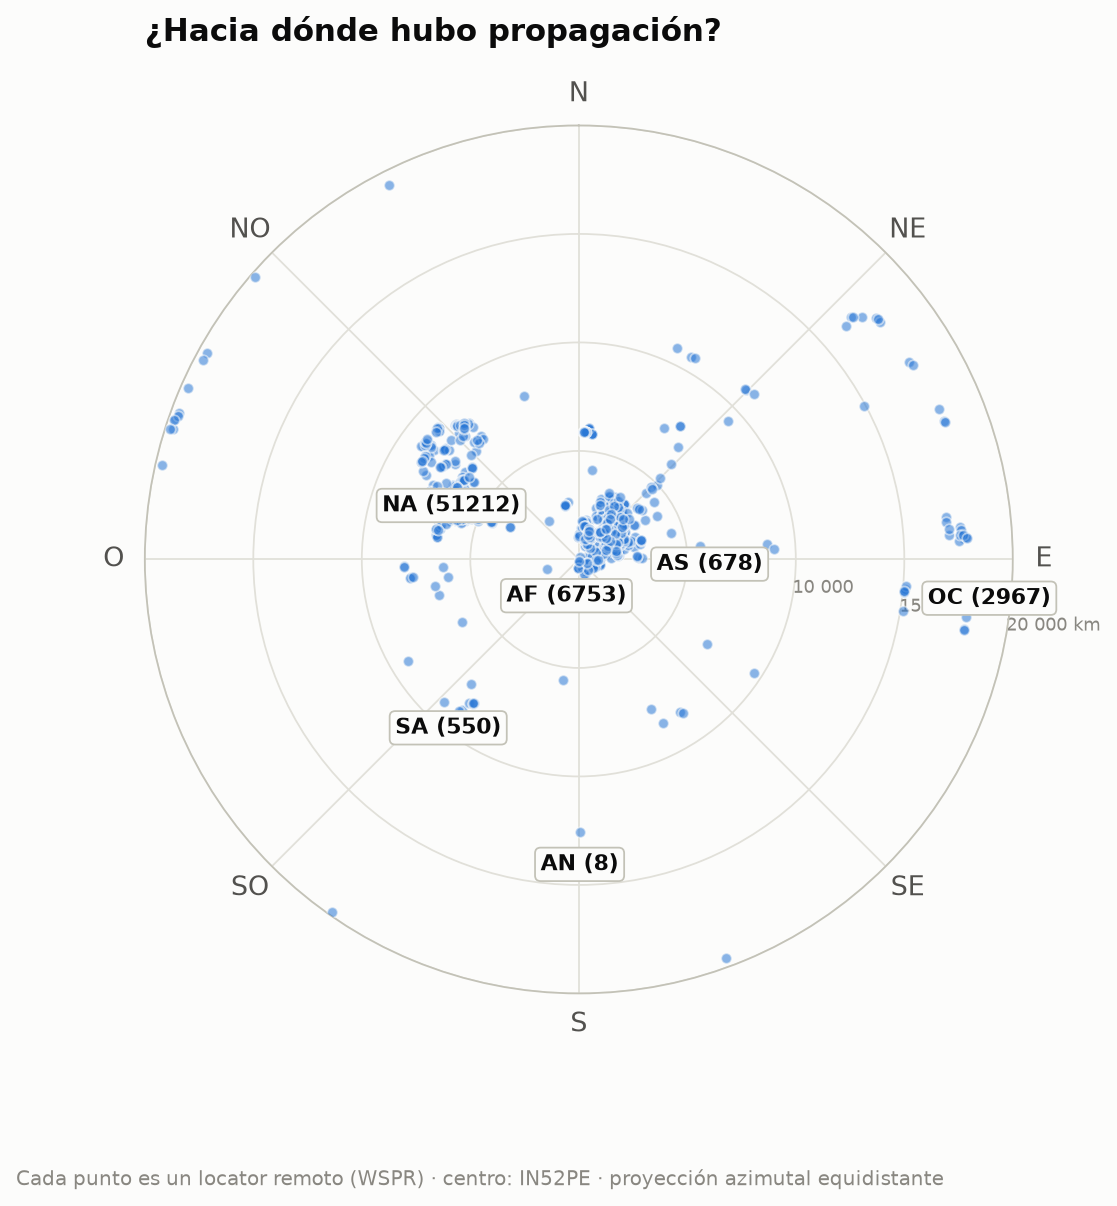
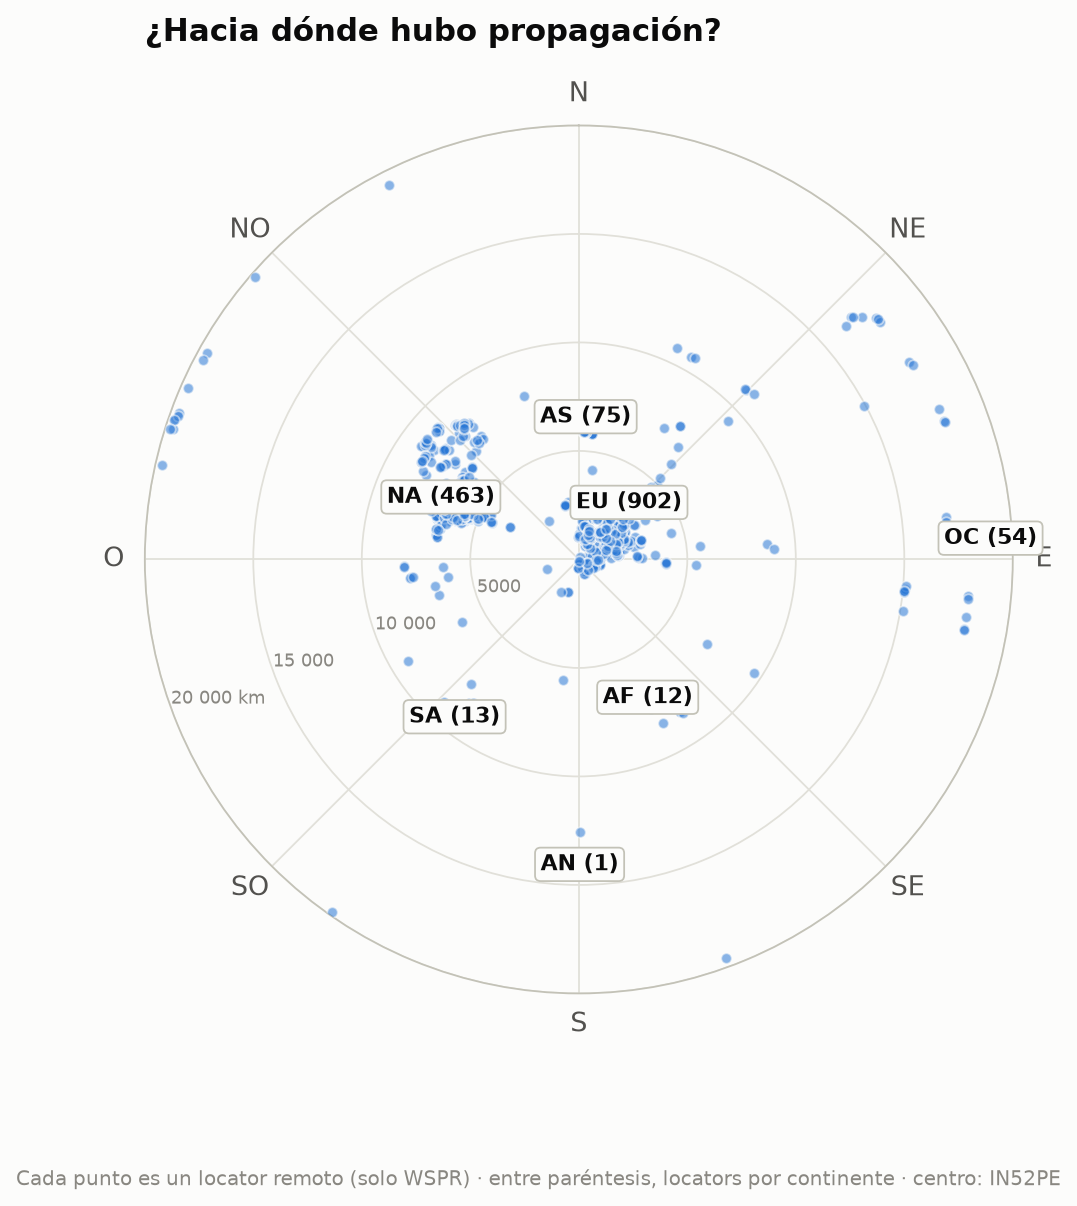
Borrador del informe de propagación 2026-W40

diff --git a/informes/2026-W40/informe.html b/informes/2026-W40/informe.html
@@ -92,14 +92,73 @@ de verdad</strong> (spots reales desde Galicia). Todas las horas en UTC salvo qu
 </tbody>
 </table>
 <p><em>Semáforo Kp: 🟢 ≤ 3 tranquilo · 🟡 4 inquieto · 🔴 ≥ 5 tormenta.</em></p>
-<p><img alt="Flujo solar de los últimos 12 meses" src="sfi_12meses.png" /></p>
+<p><img alt="La semana del Sol: rayos X, SFI y Kp" src="semana_solar.png" /></p>
+<p><em>Cómo leerla, de arriba abajo. <strong>Rayos X:</strong> cada pico es una fulguración; si entra en la franja
+rosa (clases M y X), en la cara iluminada de la Tierra la capa D absorbe la HF durante minutos u
+horas (el famoso «apagón de radio»). Los huecos de la línea son cortes de datos: cerca de los
+equinoccios el satélite pasa cada día un rato por la sombra de la Tierra. <strong>SFI:</strong> cuanto más alto, más arriba llega la MUF.
+<strong>Kp:</strong> agitación del campo magnético cada 3 horas; las barras rojas son tormenta.</em></p>
+<p><img alt="Flujo solar de los últimos 12 meses y previsión" src="sfi_12meses.png" /></p>
 <p><em>Estamos en la fase descendente del ciclo 25: el SFI baja poco a poco, con altibajos de ~27 días
-(la rotación del Sol). La línea discontinua marca la tendencia del último año.</em></p>
-<p><strong>Lo que espera NOAA para esta semana:</strong> SFI entre 90 y 105, Ap máximo
-12 y Kp máximo 4 (🟡 inquieto);
-días con Kp ≥ 4 previstos: dom 4/10.</p>
+(la rotación del Sol). La línea discontinua naranja marca la tendencia del último año; a la
+derecha, en violeta, la previsión mensual de NOAA con su rango de incertidumbre (zona sombreada).</em></p>
+<h3>¿Qué viene? Previsión de la actividad solar</h3>
+<p><strong>Próximos 3 días</strong> (NOAA, la previsión más fiable; emitida el lun 28/9 12:30 UTC):</p>
+<table>
+<thead>
+<tr>
+<th>Día</th>
+<th style="text-align: right;">Kp máx. previsto</th>
+<th style="text-align: center;"></th>
+<th style="text-align: right;">Prob. apagón de radio R1–R2</th>
+<th style="text-align: right;">Prob. apagón fuerte (R3+)</th>
+</tr>
+</thead>
+<tbody>
+<tr>
+<td>lun 28/9</td>
+<td style="text-align: right;">1,67</td>
+<td style="text-align: center;">🟢</td>
+<td style="text-align: right;">5 %</td>
+<td style="text-align: right;">1 %</td>
+</tr>
+<tr>
+<td>mar 29/9</td>
+<td style="text-align: right;">2,00</td>
+<td style="text-align: center;">🟢</td>
+<td style="text-align: right;">1 %</td>
+<td style="text-align: right;">1 %</td>
+</tr>
+<tr>
+<td>mié 30/9</td>
+<td style="text-align: right;">1,67</td>
+<td style="text-align: center;">🟢</td>
+<td style="text-align: right;">1 %</td>
+<td style="text-align: right;">1 %</td>
+</tr>
+</tbody>
+</table>
+<p><em>R1–R2 = fulguración M (apagón menor o moderado en la cara diurna); R3+ = fulguración X.</em></p>
+<p><strong>Esta semana:</strong> SFI entre 90 y 105, Ap máximo 12 y
+Kp máximo 4 (🟡 inquieto); días con Kp ≥ 4 previstos:
+dom 4/10.</p>
+<p><img alt="Previsión de NOAA a 27 días" src="prevision_27dias.png" /></p>
+<p><strong>Hasta el sáb 24/10:</strong> SFI entre 88 y 105; posible
+agitación geomagnética (Kp ≥ 4) el dom 4/10, lun 5/10, mar 6/10, mié 21/10, jue 22/10, vie 23/10, sáb 24/10.
+<em>Esta previsión se basa en que el Sol gira sobre sí mismo cada ~27 días: las regiones activas y
+los agujeros coronales que vimos hace una rotación suelen «volver a asomarse». Por eso acierta
+bastante con las tendencias, pero no puede anticipar una fulguración concreta.</em></p>
+<p><strong>A largo plazo:</strong> NOAA prevé para marzo de 2027 un SFI medio mensual de
+<strong>122</strong> (entre 109 y 132). Es decir, el ciclo 25 sigue
+bajando: poco a poco, 10 m y 12 m abrirán menos días. <strong>Ojo:</strong> la media de los últimos
+27 días (108) va <strong>por debajo</strong> del rango que NOAA preveía para este mes
+(unos 130): el Sol se está apagando más
+deprisa de lo esperado, y las bandas altas lo notarán.</p>
 <h2>2. Lo que pasó de verdad desde Galicia</h2>
-<p>Esta semana se registraron <strong>359 939 spots</strong> con una estación gallega en un extremo (297 600 de WSPR, de 5 estaciones en IN52/IN53, y 62 339 de la Reverse Beacon Network en CW/RTTY).
+<p>Esta semana se registraron <strong>359 939 spots</strong>: 297 600 de WSPR con una
+estación gallega en un extremo (5 estaciones en las cuadrículas IN52/IN53) y
+62 339 de la Reverse Beacon Network en CW/RTTY con una estación del <strong>distrito EA1</strong> (el RBN
+no da locator, así que no podemos separar Galicia de Asturias, Cantabria y Castilla y León).
 Las bandas con más actividad fueron <strong>40m</strong> (114 120), <strong>20m</strong> (103 891), <strong>60m</strong> (41 078), <strong>80m</strong> (31 947), y la hora más movida, las <strong>18 UTC</strong>.</p>
 <p><img alt="Mapa de calor de spots por hora UTC y banda" src="heatmap_hora_banda.png" /></p>
 <p><em>Cómo leerlo: cada casilla es una hora UTC en una banda; cuanto más oscura, más spots. Fíjate en
@@ -111,7 +170,7 @@ que la banda abre para un salto de 3 000 km. Si los spots siguen la línea, teor
 <tr>
 <th>Banda</th>
 <th style="text-align: right;">Distancia</th>
-<th>Estación gallega</th>
+<th>Estación gallega (WSPR)</th>
 <th>Corresponsal</th>
 <th>Locator</th>
 <th>Continente</th>
@@ -204,6 +263,7 @@ que la banda abre para un salto de 3 000 km. Si los spots siguen la línea, teor
 </table>
 <p><em>Distancias de círculo máximo medidas desde IN52PE (WSPR).</em></p>
 <h3>Rutas por continente</h3>
+<p>Spots de WSPR (Galicia) y RBN (distrito EA1) juntos, por continente del corresponsal:</p>
 <table>
 <thead>
 <tr>
@@ -332,7 +392,9 @@ que la banda abre para un salto de 3 000 km. Si los spots siguen la línea, teor
 </table>
 <p><img alt="Rutas desde Vigo por rumbo y distancia" src="rutas_continentes.png" /></p>
 <p><em>Mapa centrado en Vigo: el ángulo es el rumbo al que apuntaría tu antena y la distancia al centro,
-los kilómetros. Entre paréntesis, los spots de cada continente. 1 520 locators distintos.</em></p>
+los kilómetros. Solo WSPR, porque el RBN no da locator: cada punto es un locator distinto
+(1 520 en total) y la cifra entre paréntesis es cuántos hay de cada continente. Por eso no
+coincide con los spots de la tabla, que suman todos los spots de WSPR y RBN.</em></p>
 <h3>La ionosfera medida</h3>
 <p>Datos de las digisondas de <strong>El Arenosillo</strong> (37,1° N), <strong>Roquetes (Ebro)</strong> (40,8° N), <strong>Dourbes</strong> (50,1° N).
 Solo usamos ionogramas con confianza de autoescalado ≥ 70 % y descartamos los valores
@@ -388,8 +450,9 @@ que la mediana o esporádica E. La línea naranja del mapa de calor muestra lo m
 </ul>
 <h2>3. Previsión para la semana (lun 28/9 – dom 4/10)</h2>
 <h3>DX: fiabilidad prevista (VOACAP)</h3>
-<p>Bandas con fiabilidad media ≥ 50 % por franja horaria (UTC), la mejor primero. En cursiva, la
-mejor banda cuando ninguna llega al 50 % (apertura posible pero poco fiable):</p>
+<p><strong>En FT8</strong> (el modo más usado, y el más parecido a los spots WSPR/RBN de la sección 2): bandas con
+fiabilidad media ≥ 50 % por franja horaria (UTC), la mejor primero. En cursiva, la mejor banda
+cuando ninguna llega al 50 % (apertura posible pero poco fiable):</p>
 <table>
 <thead>
 <tr>
@@ -409,6 +472,87 @@ mejor banda cuando ninguna llega al 50 % (apertura posible pero poco fiable):</p
 <td>Norteamérica este (Nueva York)</td>
 <td style="text-align: right;">5 307</td>
 <td style="text-align: right;">291°</td>
+<td>40m, 80m, 30m</td>
+<td>80m, 40m</td>
+<td>40m, 30m</td>
+<td>20m, 17m, 15m</td>
+<td>20m, 17m, 15m</td>
+<td>40m, 30m, 20m</td>
+</tr>
+<tr>
+<td>Caribe (Santo Domingo)</td>
+<td style="text-align: right;">6 288</td>
+<td style="text-align: right;">265°</td>
+<td>40m, 30m, 80m</td>
+<td>40m, 30m, 80m</td>
+<td>30m, 40m, 20m</td>
+<td>17m, 15m, 20m</td>
+<td>17m, 15m, 20m</td>
+<td>30m, 40m, 20m</td>
+</tr>
+<tr>
+<td>Sudamérica (Buenos Aires)</td>
+<td style="text-align: right;">9 922</td>
+<td style="text-align: right;">219°</td>
+<td>20m, 30m, 40m</td>
+<td>30m, 20m, 40m</td>
+<td>17m, 15m</td>
+<td>12m, 15m, 10m</td>
+<td>12m, 10m, 15m</td>
+<td>20m, 17m, 15m</td>
+</tr>
+<tr>
+<td>Japón (Tokio)</td>
+<td style="text-align: right;">10 780</td>
+<td style="text-align: right;">25°</td>
+<td><em>30m (21 %)</em></td>
+<td>—</td>
+<td>17m</td>
+<td><em>20m (44 %)</em></td>
+<td>30m</td>
+<td>30m</td>
+</tr>
+<tr>
+<td>Oceanía (Sídney)</td>
+<td style="text-align: right;">18 035</td>
+<td style="text-align: right;">69°</td>
+<td>—</td>
+<td>—</td>
+<td><em>12m (45 %)</em></td>
+<td><em>15m (37 %)</em></td>
+<td><em>20m (46 %)</em></td>
+<td><em>20m (29 %)</em></td>
+</tr>
+<tr>
+<td>Sudáfrica (Johannesburgo)</td>
+<td style="text-align: right;">8 489</td>
+<td style="text-align: right;">146°</td>
+<td>30m, 20m, 40m</td>
+<td><em>20m (40 %)</em></td>
+<td>15m, 12m</td>
+<td>12m, 10m, 15m</td>
+<td>15m, 12m, 17m</td>
+<td>20m, 30m, 17m</td>
+</tr>
+</tbody>
+</table>
+<p><img alt="Fiabilidad VOACAP por destino, banda y hora" src="voacap_fiabilidad.png" /></p>
+<p><strong>En CW</strong> (a oído hace falta unos 14 dB más de señal que en FT8, así que se abren menos bandas):</p>
+<table>
+<thead>
+<tr>
+<th>Destino</th>
+<th>00–04</th>
+<th>04–08</th>
+<th>08–12</th>
+<th>12–16</th>
+<th>16–20</th>
+<th>20–24</th>
+</tr>
+</thead>
+<tbody>
+<tr>
+<td>Norteamérica este (Nueva York)</td>
 <td>40m, 30m, 80m</td>
 <td>40m, 80m</td>
 <td><em>30m (47 %)</em></td>
@@ -418,66 +562,55 @@ mejor banda cuando ninguna llega al 50 % (apertura posible pero poco fiable):</p
 </tr>
 <tr>
 <td>Caribe (Santo Domingo)</td>
-<td style="text-align: right;">6 288</td>
-<td style="text-align: right;">265°</td>
 <td>40m</td>
 <td>40m</td>
 <td><em>20m (34 %)</em></td>
 <td><em>15m (42 %)</em></td>
 <td>17m, 15m</td>
-<td>30m</td>
+<td>30m, 40m</td>
 </tr>
 <tr>
 <td>Sudamérica (Buenos Aires)</td>
-<td style="text-align: right;">9 922</td>
-<td style="text-align: right;">219°</td>
 <td>20m</td>
 <td><em>30m (45 %)</em></td>
-<td><em>15m (48 %)</em></td>
+<td><em>15m (38 %)</em></td>
 <td>12m</td>
 <td>10m, 12m</td>
 <td><em>20m (46 %)</em></td>
 </tr>
 <tr>
 <td>Japón (Tokio)</td>
-<td style="text-align: right;">10 780</td>
-<td style="text-align: right;">25°</td>
 <td>—</td>
 <td>—</td>
-<td><em>17m (39 %)</em></td>
+<td><em>17m (27 %)</em></td>
 <td>—</td>
 <td><em>20m (23 %)</em></td>
 <td><em>30m (31 %)</em></td>
 </tr>
 <tr>
 <td>Oceanía (Sídney)</td>
-<td style="text-align: right;">18 035</td>
-<td style="text-align: right;">69°</td>
 <td>—</td>
 <td>—</td>
-<td><em>12m (22 %)</em></td>
+<td><em>12m (20 %)</em></td>
 <td>—</td>
 <td>—</td>
 <td>—</td>
 </tr>
 <tr>
 <td>Sudáfrica (Johannesburgo)</td>
-<td style="text-align: right;">8 489</td>
-<td style="text-align: right;">146°</td>
 <td><em>20m (44 %)</em></td>
 <td>—</td>
-<td>12m</td>
-<td>10m, 12m</td>
+<td><em>12m (40 %)</em></td>
+<td>12m, 10m</td>
 <td>12m, 15m, 10m</td>
 <td><em>17m (47 %)</em></td>
 </tr>
 </tbody>
 </table>
-<p><img alt="Fiabilidad VOACAP por destino, banda y hora" src="voacap_fiabilidad.png" /></p>
-<p><em>Supuestos: CW a 100 W, dipolos de media onda a media longitud de onda de altura en los dos
-extremos, ruido residencial. SSN usado: <strong>40</strong> (SSN efectivo del SFI previsto (99)). En SSB hacen
-falta ~17 dB más de señal, así que resta fiabilidad; en FT8, suma. VOACAP describe el promedio
-mensual: un día concreto puede ir mucho mejor o peor.</em></p>
+<p><em>Supuestos: 100 W, dipolos de media onda a media longitud de onda de altura en los dos extremos,
+ángulo de salida mínimo de 3° y ruido residencial. SSN usado: <strong>40</strong> (SSN efectivo del SFI previsto (99)).
+En SSB hacen falta ~30 dB más que en FT8. VOACAP describe el promedio mensual: un día concreto puede
+ir mucho mejor o peor.</em></p>
 <h3>NVIS y contactos regionales (80 y 40 m)</h3>
 <p>Combinando El Arenosillo, Roquetes (Ebro), Dourbes y llevándolas a la latitud y la hora local de Vigo
 (El Arenosillo sola, 5° más al sur, resulta algo optimista), la <strong>foF2 mediana estimada en Vigo fue de
@@ -927,7 +1060,7 @@ para la semana). <strong>El informe no se publica sin este párrafo.</strong></p
 <hr />
 <h3>Fuentes</h3>
 <ul>
-<li>NOAA SWPC — daily solar/geomagnetic indices, GOES X-ray flares, 27-day outlook (https://www.swpc.noaa.gov/)</li>
+<li>NOAA SWPC — índices solares y geomagnéticos diarios, flujo de rayos X y fulguraciones de GOES, previsión a 3 y 27 días y previsión del ciclo solar (https://www.swpc.noaa.gov/)</li>
 <li>NRC Canada / DRAO Penticton — histórico diario del flujo F10.7 (https://www.spaceweather.gc.ca/)</li>
 <li>WSPRnet vía wspr.live (https://wspr.live/)</li>
 <li>Reverse Beacon Network (https://www.reversebeacon.net/)</li>
@@ -939,5 +1072,5 @@ para la semana). <strong>El informe no se publica sin este párrafo.</strong></p
 <li>Cálculos propios: SSN efectivo, distancias de círculo máximo, MUF por ley de la secante y
   orto/ocaso (algoritmo de NOAA).</li>
 </ul>
-<p><sub>Borrador generado automáticamente el 2026-09-28 14:05 UTC por el script del radioclub
+<p><sub>Borrador generado automáticamente el 2026-09-28 18:47 UTC por el script del radioclub
 EA1RKV. Las secciones sin datos indican que la fuente no respondió esta semana.</sub></p></body></html>
